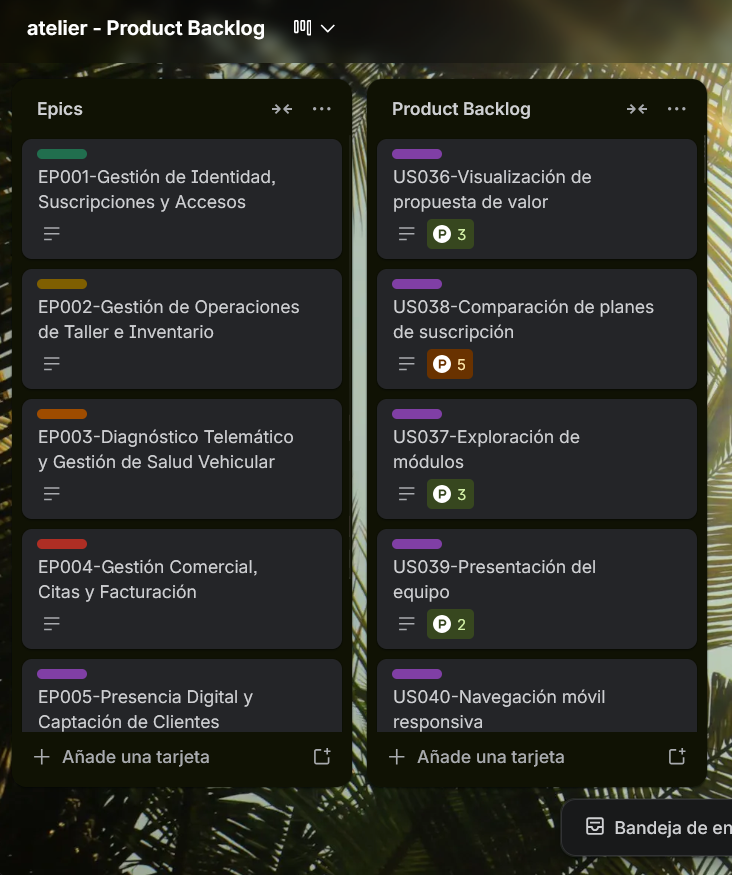
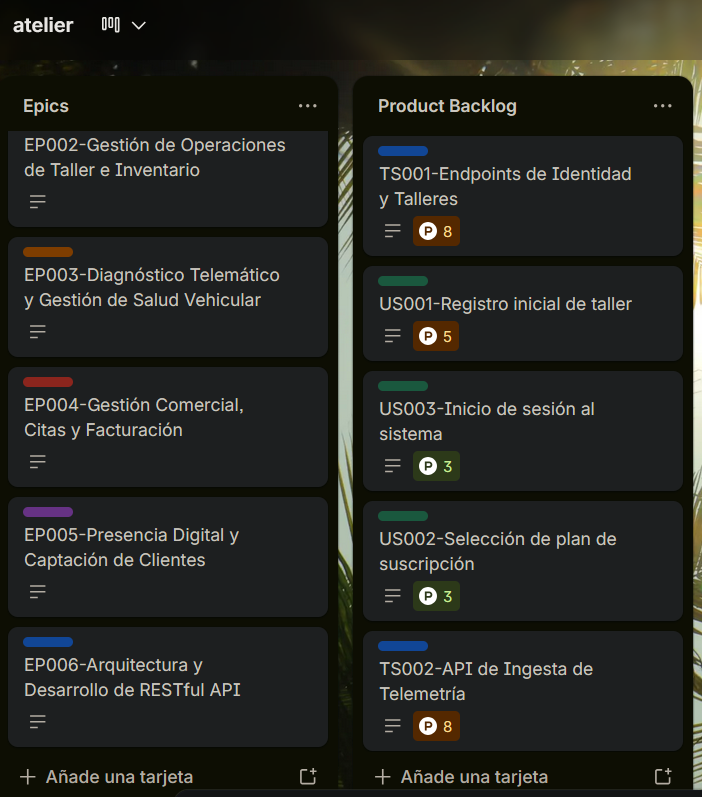
docs: replace the old product backlog with the new product backlog.

diff --git a/report/25-product-backlog.md b/report/25-product-backlog.md
@@ -8,69 +8,56 @@
 
 *Product Backlog de atelier*
 
-| # Orden | User Story Id | Título                                         | Descripción                                                                                                                                                           | Story Points (1 / 2 / 3 / 5 / 8) |
-|---------|---------------|------------------------------------------------|-----------------------------------------------------------------------------------------------------------------------------------------------------------------------|----------------------------------|
-| 1       | US036         | Visualización de propuesta de valor            | Como visitante web, quiero visualizar una propuesta de valor clara, para entender inmediatamente qué ofrece atelier.                                                  | 3                                |
-| 2       | US038         | Comparación de planes de suscripción           | Como dueño de taller visitante, quiero comparar los precios y módulos de los planes, para elegir el que mejor se ajuste a mi presupuesto.                             | 5                                |
-| 3       | US037         | Exploración de módulos                         | Como dueño de taller visitante, quiero leer los beneficios de integrar atelier, para saber cómo el software modernizará mi negocio.                                   | 3                                |
-| 4       | US039         | Presentación del equipo                        | Como visitante web, quiero conocer al equipo desarrollador de atelier, para generar confianza en la startup.                                                          | 2                                |
-| 5       | US040         | Navegación móvil responsiva                    | Como visitante web, quiero navegar fluidamente desde mi celular por toda la landing page, para informarme sin encender una computadora.                               | 5                                |
-| 6       | US041         | Acceso a información legal                     | Como visitante web, quiero acceder a las políticas de privacidad, términos y Condiciones, para revisar cómo se tratarán los datos.                                    | 2                                |
-| 7       | US015         | Registro de nuevo cliente                      | Como administrador, quiero registrar un nuevo cliente, para mantener un control organizado.                                                                           | 3                                |
-| 8       | US012         | Alta de nuevos repuestos                       | Como dueño del taller, quiero registrar nuevos repuestos, para mantener un inventario digital.                                                                        | 5                                |
-| 9       | TS004         | Endpoints CRUD de catálogo de inventario       | Como developer, necesito crear los endpoints CRUD para permitir la manipulación de la tabla de repuestos en la base de datos relacional.                              | 5                                |
-| 10      | US018         | Actualización de estado de Orden               | Como mecánico, quiero actualizar el estado de una Orden de Trabajo, para mantener informada a la recepción.                                                           | 3                                |
-| 11      | US019         | Asignación de mecánicos a OT                   | Como administrador, quiero asignar un mecánico o mecánicos a una orden de trabajo, para delegar responsabilidades.                                                    | 3                                |
-| 12      | TS009         | Endpoint transaccional de Órdenes de Trabajo   | Como developer, necesito crear el endpoint transaccional POST /api/v1/work-orders que, al ejecutarse, reste automáticamente la cantidad de repuestos utilizados.      | 8                                |
-| 13      | US026         | Vinculación de hardware OBD2                   | Como mecánico, quiero vincular el dispositivo OBD2 a un vehículo en el taller, para iniciar la captura de telemetría.                                                 | 5                                |
-| 14      | US021         | Visualización de telemetría en vivo            | Como administrador, quiero visualizar un panel de telemetría en tiempo real, para evaluar comunicarme con el dueño del vehículo.                                      | 8                                |
-| 15      | TS006         | Endpoint de ingesta de telemetría IoT          | Como developer, necesito exponer un endpoint de ingesta rápida POST /api/v1/telemetry/ingest capaz de recibir altos volúmenes de payloads JSON.                       | 8                                |
-| 16      | US001         | Registro inicial de taller                     | Como dueño de taller, quiero registrar mi empresa completando un formulario con RUC y datos comerciales, para crear un perfil oficial en la plataforma Atelier.       | 3                                |
-| 17      | US002         | Selección de plan                              | Como dueño de taller, quiero seleccionar un plan de suscripción durante el registro, para habilitar las funcionalidades correspondientes a mi capacidad operativa.    | 5                                |
-| 18      | US003         | Inicio de sesión al sistema                    | Como usuario del taller, quiero iniciar sesión de forma segura mediante mi correo y contraseña, para acceder al dashboard de mi centro de trabajo.                    | 3                                |
-| 19      | TS001         | Endpoint de registro de talleres               | Como developer, necesito implementar el endpoint POST /api/v1/auth/register para permitir la creación de cuentas de dueños de talleres y hashear sus contraseñas.     | 3                                |
-| 20      | TS002         | Endpoint de autenticación                      | Como developer, necesito implementar el endpoint POST /api/v1/auth/login que valide las credenciales y devuelva un token JWT con el rol del usuario.                  | 5                                |
-| 21      | TS003         | Middleware de separación de datos              | Como developer, necesito desarrollar un Middleware de Arquitectura Multi-Tenant que intercepte todas las peticiones y filtre los datos por id del taller.             | 5                                |
-| 22      | US029         | Creación de cotización digital                 | Como administrador, quiero generar una cotización digital sumando automáticamente servicios e insumos del inventario, para brindar un precio transparente al cliente. | 5                                |
-| 23      | US030         | Envío remoto de cotización                     | Como administrador, quiero enviar la cotización en formato PDF al correo o WhatsApp del cliente, para facilitar su revisión remota.                                   | 3                                |
-| 24      | US031         | Registro de cobro en caja                      | Como administrador, quiero registrar el pago de una orden finalizada, para cuadrar la caja diaria.                                                                    | 3                                |
-| 25      | US022         | Notificación de código DTC                     | Como administrador, quiero recibir notificaciones push en la plataforma web cuando el sistema detecte un código DTC, para actuar de inmediato.                        | 5                                |
-| 26      | TS007         | Endpoint de historial de códigos de error      | Como developer, necesito crear el endpoint GET /api/v1/telemetry/dtc-history/{vehicle_id} que devuelva el historial ordenado de códigos de falla detectados.          | 5                                |
-| 27      | TS008         | Job de procesamiento predictivo                | Como developer, necesito construir un tareas asíncronas que evalúen periódicamente la telemetría ingerida y genere registros de alertas.                              | 8                                |
-| 28      | US023         | Listado de alertas predictivas                 | Como administrador, quiero ver las alertas predictivas, para priorizar la urgencia de atención.                                                                       | 5                                |
-| 29      | US024         | Historial de Telemetria                        | Como administrador, quiero visualizar el historial de alertas, para evaluar el comportamiento del vehículo.                                                           | 5                                |
-| 30      | US016         | Consulta de historial clínico                  | Como administrador, quiero consultar el historial clínico vehicular de un cliente, para conocer reparaciones previas y ofrecer un mejor diagnóstico.                  | 3                                |
-| 31      | TS005         | Endpoint de consulta de vehículos por cliente  | Como developer, necesito implementar el endpoint GET /api/v1/customers/{id}/vehicles utilizando un JOIN SQL, para devolver la lista de automóviles.                   | 5                                |
-| 32      | US013         | Ajuste manual de stock                         | Como dueño del taller, quiero registrar entradas manuales de mercadería, para mantener el stock real actualizado.                                                     | 3                                |
-| 33      | US014         | Alerta de stock mínimo                         | Como dueño del taller, quiero recibir una alerta visual cuando un repuesto alcance su stock mínimo, para realizar pedidos de reposición oportunamente.                | 3                                |
-| 34      | US017         | Gestión de lockers de trabajo                  | Como administrador, quiero gestionar los lockers de trabajo del taller, para optimizar el espacio de atención.                                                        | 3                                |
-| 35      | US020         | Búsqueda y filtrado de inventario              | Como administrador, quiero aplicar filtros avanzados en la tabla de inventario, para encontrar rápidamente una pieza específica.                                      | 5                                |
-| 36      | US027         | Agendamiento de citas                          | Como administrador, quiero agendar citas de mantenimiento preventivo en un calendario interactivo, para organizar los ingresos diarios al taller.                     | 5                                |
-| 37      | US028         | Reprogramación en calendario                   | Como administrador, quiero poder reprogramar o cancelar una cita agendada, para adaptarme a los cambios del cliente.                                                  | 3                                |
-| 38      | US032         | Aplicación de descuentos manuales              | Como administrador, quiero aplicar un descuento porcentual o manual a una factura antes del cobro, para fidelizar a clientes recurrentes.                             | 3                                |
-| 39      | US033         | Panel de ingresos y rentabilidad               | Como dueño de taller, quiero visualizar los ingresos totales generados en el mes actual versus el mes anterior en porcentajes, para evaluar el crecimiento.           | 5                                |
-| 40      | TS010         | Endpoint de agregación de métricas financieras | Como developer, necesito implementar el endpoint GET /api/v1/analytics/revenue-summary que realice funciones de agregación en la base de datos.                       | 5                                |
-| 41      | US034         | Exportación de reportes contables              | Como dueño de taller, quiero exportar un reporte financiero en formato Excel, para enviárselo a mi contador a fin de mes.                                             | 3                                |
-| 42      | US035         | Sugerencia de contacto por kilometraje         | Como recepcionista, quiero que el sistema me sugiera vehículos que ya superaron su kilometraje límite, para contactarlos proactivamente.                              | 3                                |
-| 43      | US004         | Invitación de empleados                        | Como dueño de taller, quiero invitar a mis empleados mediante un enlace enviado a sus correos, para que puedan crear sus credenciales de acceso al ERP.               | 3                                |
-| 44      | US005         | Asignación de roles y permisos                 | Como dueño de taller, quiero asignar roles específicos a mi personal, para restringir el acceso a módulos.                                                            | 5                                |
-| 45      | US006         | Recuperación de contraseña                     | Como usuario, quiero solicitar un enlace de recuperación a mi correo, para restablecer mi contraseña en caso de olvido.                                               | 3                                |
-| 46      | US007         | Monitoreo de estado de suscripción             | Como dueño de taller, quiero visualizar el estado activo de mi suscripción y los días restantes del ciclo, para prever mis pagos y evitar cortes de servicio.         | 2                                |
-| 47      | US008         | Actualización de método de pago                | Como dueño de taller, quiero actualizar los datos de mi tarjeta de crédito/débito en la configuración, para mantener mis pagos de suscripción al día.                 | 3                                |
-| 48      | US009         | Upgrade de plan de suscripción                 | Como dueño de taller, quiero solicitar un upgrade de mi plan desde el panel, para desbloquear funcionalidades avanzadas cuando mi negocio crezca.                     | 3                                |
-| 49      | US010         | Historial de facturación de software           | Como administrador, quiero ver el historial de facturas emitidas por Andeva hacia mi taller, para llevar un control de mis gastos de software.                        | 2                                |
-| 50      | US011         | Edición de perfil de usuario                   | Como usuario del sistema, quiero editar mi perfil personal, para mantener mi información actualizada frente al resto del equipo.                                      | 2                                |
-| 51      | US025         | Desvinculación de escáner OBD2                 | Como mecánico, quiero desvincular el escáner OBD2 de la plataforma web, para poder usar el hardware en otro auto.                                                     | 2                                |
+| # Orden | User Story Id | Título                                 | Descripción                                                                                                                                         | Story Points (1 / 2 / 3 / 5 / 8) |
+|---------|---------------|----------------------------------------|-----------------------------------------------------------------------------------------------------------------------------------------------------|----------------------------------|
+| 1       | TS001         | Endpoints de Identidad y Talleres      | Como desarrollador backend, necesito implementar los endpoints/id_users y/wm, para manejar el aprovisionamiento multi-tenant.                       | 8                                |
+| 2       | US001         | Registro inicial de taller             | Como dueño de taller, quiero registrar mi empresa, para crear un perfil oficial en la plataforma Atelier.                                           | 5                                |
+| 3       | US003         | Inicio de sesión al sistema            | Como usuario registrado, quiero iniciar sesión de forma segura, para acceder a mi espacio de trabajo.                                               | 3                                |
+| 4       | US002         | Selección de plan de suscripción       | Como dueño de taller, quiero seleccionar un plan de suscripción durante el registro, para habilitar las capacidades operativas correspondientes.    | 3                                |
+| 5       | TS002         | API de Ingesta de Telemetría           | Como desarrollador backend, necesito implementar /vh_telemetry_batches y/vh, para soportar el alto volumen de datos IoT.                            | 8                                |
+| 6       | US018         | Vinculación de hardware OBD2           | Como mecánico, quiero vincular un dispositivo OBD2 a un vehículo, para iniciar la captura de telemetría.                                            | 5                                |
+| 7       | US020         | Visualización de telemetría en vivo    | Como mecánico, quiero visualizar la telemetría en vivo del vehículo, para evaluar la salud del motor con precisión.                                 | 8                                |
+| 8       | TS003         | Transacción de Operaciones de Servicio | Como desarrollador backend, necesito gestionar/so_work_orders y/so tasks bajo un bloque transaccional, para asegurar la integridad atómica.         | 5                                |
+| 9       | US014         | Creación de Orden de Trabajo           | Como administrador, quiero crear una Orden de Trabajo, para documentar el servicio requerido por el cliente.                                        | 5                                |
+| 10      | US015         | Asignación de mecánicos a OT           | Como administrador, quiero asignar mecánicos específicos a una OT, para delegar las responsabilidades de reparación.                                | 2                                |
+| 11      | US016         | Actualización de estado de Orden       | Como mecánico, quiero actualizar el estado de una OT, para que la recepción conozca el progreso de la reparación.                                   | 2                                |
+| 12      | TS006         | Procesamiento del Patrón Outbox        | Como desarrollador backend, necesito implementar /sys_outbox, para garantizar la consistencia eventual de los eventos de dominio distribuidos.      | 5                                |
+| 13      | TS005         | Procesamiento de Facturación y Pagos   | Como desarrollador backend, necesito conectar/bl invoices y/bl bl_payments, para consolidar la lógica financiera.                                   | 5                                |
+| 14      | US028         | Registro de cobro en caja              | Como administrador, quiero registrar el pago de una orden de trabajo, para realizar el cuadre contable diario.                                      | 3                                |
+| 15      | US026         | Creación de cotización digital         | Como administrador, quiero generar cotizaciones uniendo repuestos y servicios, para brindar precios transparentes.                                  | 5                                |
+| 16      | US011         | Registro de nuevo cliente              | Como recepcionista, quiero registrar un cliente nuevo, para asociarlo a futuras transacciones.                                                      | 3                                |
+| 17      | US024         | Agendamiento de citas                  | Como recepcionista, quiero agendar citas de mantenimiento, para organizar el flujo de ingresos de vehículos al taller.                              | 3                                |
+| 18      | TS004         | Endpoints de Inventario y Stock        | Como desarrollador backend, necesito estructurar/iv_parts y/iv_ iv_stocks, para mantener el registro seguro de la cadena de suministro.             | 5                                |
+| 19      | US008         | Alta de nuevos repuestos               | Como administrador, quiero registrar nuevos repuestos, para mantener un inventario digital estructurado.                                            | 3                                |
+| 20      | US021         | Notificación de código DTC             | Como administrador, quiero recibir notificaciones por códigos de error (DTC), para identificar problemas mecánicos críticos al instante.            | 5                                |
+| 21      | US022         | Listado de alertas predictivas         | Como administrador, quiero consultar un listado de alertas predictivas, para priorizar la atención de vehículos en riesgo.                          | 5                                |
+| 22      | US004         | Registro de empleados                  | Como dueño de taller, quiero gestionar los perfiles de mis empleados, para que mi personal pueda acceder al sistema.                                | 3                                |
+| 23      | US005         | Asignación de roles y permisos         | Como dueño de taller, quiero asignar roles a mis empleados, para restringir el acceso a módulos comerciales o financieros sensibles.                | 5                                |
+| 24      | US009         | Ajuste manual de stock                 | Como administrador, quiero ajustar los niveles de stock, para que el sistema refleje el inventario fisico real.                                     | 2                                |
+| 25      | US012         | Consulta de historial clínico          | Como mecánico, quiero consultar el historial de reparaciones de un vehículo, para diagnosticar de manera informada.                                 | 3                                |
+| 26      | US023         | Historial de Telemetría                | Como mecánico, quiero consultar los datos históricos de telemetría, para analizar el comportamiento del motor en el tiempo.                         | 5                                |
+| 27      | US010         | Alerta de stock mínimo                 | Como administrador, quiero establecer umbrales de stock mínimo, para recibir alertas preventivas de reposición.                                     | 3                                |
+| 28      | US017         | Búsqueda y filtrado de inventario      | Como administrador, quiero aplicar filtros al catálogo, para encontrar rápidamente una pieza específica durante una reparación.                     | 2                                |
+| 29      | US027         | Envío remoto de cotización             | Como administrador, quiero exportar la cotización, para enviársela al cliente a través de canales digitales.                                        | 2                                |
+| 30      | US025         | Reprogramación de citas                | Como recepcionista, quiero modificar la fecha de una cita existente, para adaptarme a la disponibilidad del cliente.                                | 2                                |
+| 31      | US029         | Panel de ingresos y rentabilidad       | Como dueño de taller, quiero visualizar métricas financieras comparativas, para evaluar el crecimiento mensual del negocio.                         | 5                                |
+| 32      | US030         | Exportación de reportes contables      | Como dueño de taller, quiero exportar los movimientos del mes, para facilitar las declaraciones tributarias de mi contador.                         | 3                                |
+| 33      | US019         | Desvinculación de escáner OBD2         | Como mecánico, quiero desvincular el dispositivo OBD2, para poder utilizar el hardware en otro automóvil.                                           | 2                                |
+| 34      | US013         | Gestión de lockers de trabajo          | Como administrador, quiero asignar vehículos a los lockers de trabajo, para optimizar el espacio físico del taller.                                 | 2                                |
+| 35      | US006         | Recuperación de contraseña             | Como usuario, quiero solicitar la recuperación de mi cuenta, para restablecer mi acceso en caso de olvido.                                          | 2                                |
+| 36      | US007         | Edición de perfil de usuario           | Como usuario del sistema, quiero editar mi perfil personal, para mantener mi información de contacto actualizada.                                   | 1                                |
+| 37      | US031         | Visualización de propuesta de valor    | Como visitante web, quiero visualizar claramente la propuesta de valor, para comprender los beneficios operativos del software.                     | 2                                |
+| 38      | US032         | Exploración de módulos                 | Como visitante web, quiero leer sobre las capacidades del ERP y la telemetría, para evaluar la modernización de mi negocio.                         | 2                                |
+| 39      | US033         | Comparación de planes de suscripción   | Como visitante web, quiero contrastar los planes de precios, para seleccionar el nivel que se ajuste a la capacidad de mi taller.                   | 2                                |
+| 40      | US034         | Presentación del equipo                | Como visitante web, quiero conocer la identidad del equipo desarrollador (Andeva), para establecer confianza en la plataforma.                      | 1                                |
+| 41      | US035         | Acceso a información legal             | Como visitante web, quiero revisar las políticas de privacidad y términos de servicio, para comprender el tratamiento de los datos telemáticos.     | 1                                |
 
-
-&emsp;&emsp;&emsp;&emsp;A continuación de la tabla, se adjunta una imagen del Product Backlog diseñado originalmente en Trello, así como el enlace directo para acceder al tablero. Cabe recalcar que, dentro de cada tarjeta que contenga el código de una historia de usuario, se encuentra la descripción completa y detallada de dicha historia.
 
 **Figura**
 
 *Product Backlog de atelier en Trello*
 
 ![](assets/product-backlog.png "Product Backlog de atelier")
-
 *Nota: Link de acceso a la plataforma de Trello [https://trello.com/invite/b/69e53a1f24bfdaee349e4ae0/ATTI7bbd33d5db1338ca2c51df8c95727a2a46CEA512/atelier](https://trello.com/invite/b/69e53a1f24bfdaee349e4ae0/ATTI7bbd33d5db1338ca2c51df8c95727a2a46CEA512/atelier)*
 
 <div style='page-break-after: always'></div>
